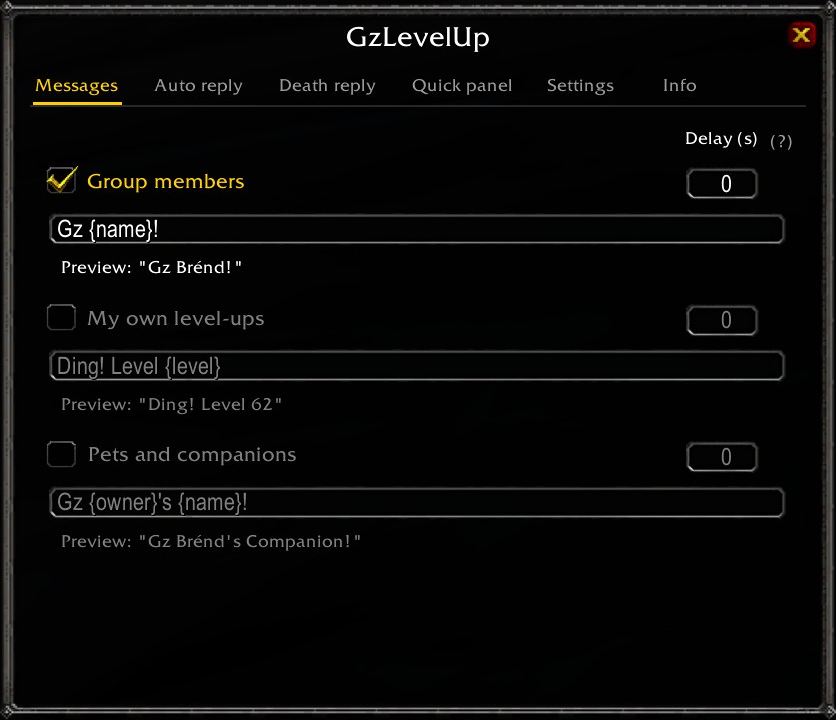
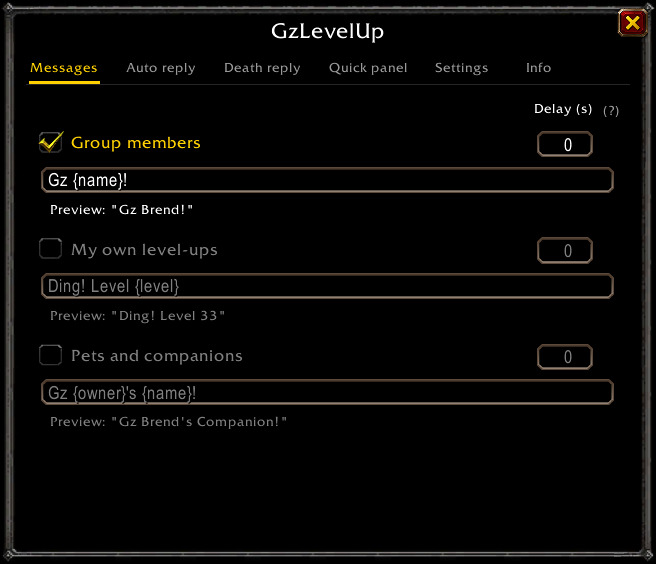
Retake the screenshots and add the Guild sub-page
All of them are from the Forever client now, with the addon's defaults. The
auto reply picture predated the split into sub-pages, and the settings one
the language dropdown.

diff --git a/README.md b/README.md
@@ -73,26 +73,32 @@ The config window (<code>/gz</code>) is split across six tabs:
       <sub><b>Messages</b> — a switch, a message and a delay per category</sub>
     </td>
     <td align="center" valign="top" width="50%">
-      <img src="media/example_auto_reply_panel.jpg" width="380" alt="Auto reply tab"><br>
-      <sub><b>Auto reply</b> — thank everyone who congratulated you, in one message</sub>
+      <img src="media/example_auto_reply_panel.jpg" width="380" alt="Auto reply tab, Level-up sub-page"><br>
+      <sub><b>Auto reply → Level-up</b> — thank everyone who congratulated you, in one message</sub>
     </td>
   </tr>
   <tr>
+    <td align="center" valign="top" width="50%">
+      <img src="media/example_auto_reply_guild_panel.jpg" width="380" alt="Auto reply tab, Guild sub-page"><br>
+      <sub><b>Auto reply → Guild</b> — greet back guild members who come online and say hello</sub>
+    </td>
     <td align="center" valign="top" width="50%">
       <img src="media/example_death_reply_panel.jpg" width="380" alt="Death reply tab, Deaths sub-page"><br>
       <sub><b>Death reply → Deaths</b> — a line per death, plus the collect window and the wipe threshold</sub>
     </td>
+  </tr>
+  <tr>
     <td align="center" valign="top" width="50%">
       <img src="media/example_death_reply_resurrections_panel.jpg" width="380" alt="Death reply tab, Resurrections sub-page"><br>
       <sub><b>Death reply → Resurrections</b> — the same for coming back, with its own collect window and no threshold</sub>
     </td>
-  </tr>
-  <tr>
     <td align="center" valign="top" width="50%">
       <img src="media/example_quick_panel_panel.jpg" width="380" alt="Quick panel tab"><br>
       <sub><b>Quick panel</b> — the button grid, its texts, and the panel size</sub>
     </td>
-    <td align="center" valign="top" width="50%">
+  </tr>
+  <tr>
+    <td align="center" valign="top" colspan="2">
       <img src="media/example_settings_panel.jpg" width="380" alt="Settings tab"><br>
       <sub><b>Settings</b> — master switch, raid chat, minimap button, the settings profiles and the language</sub>
     </td>
